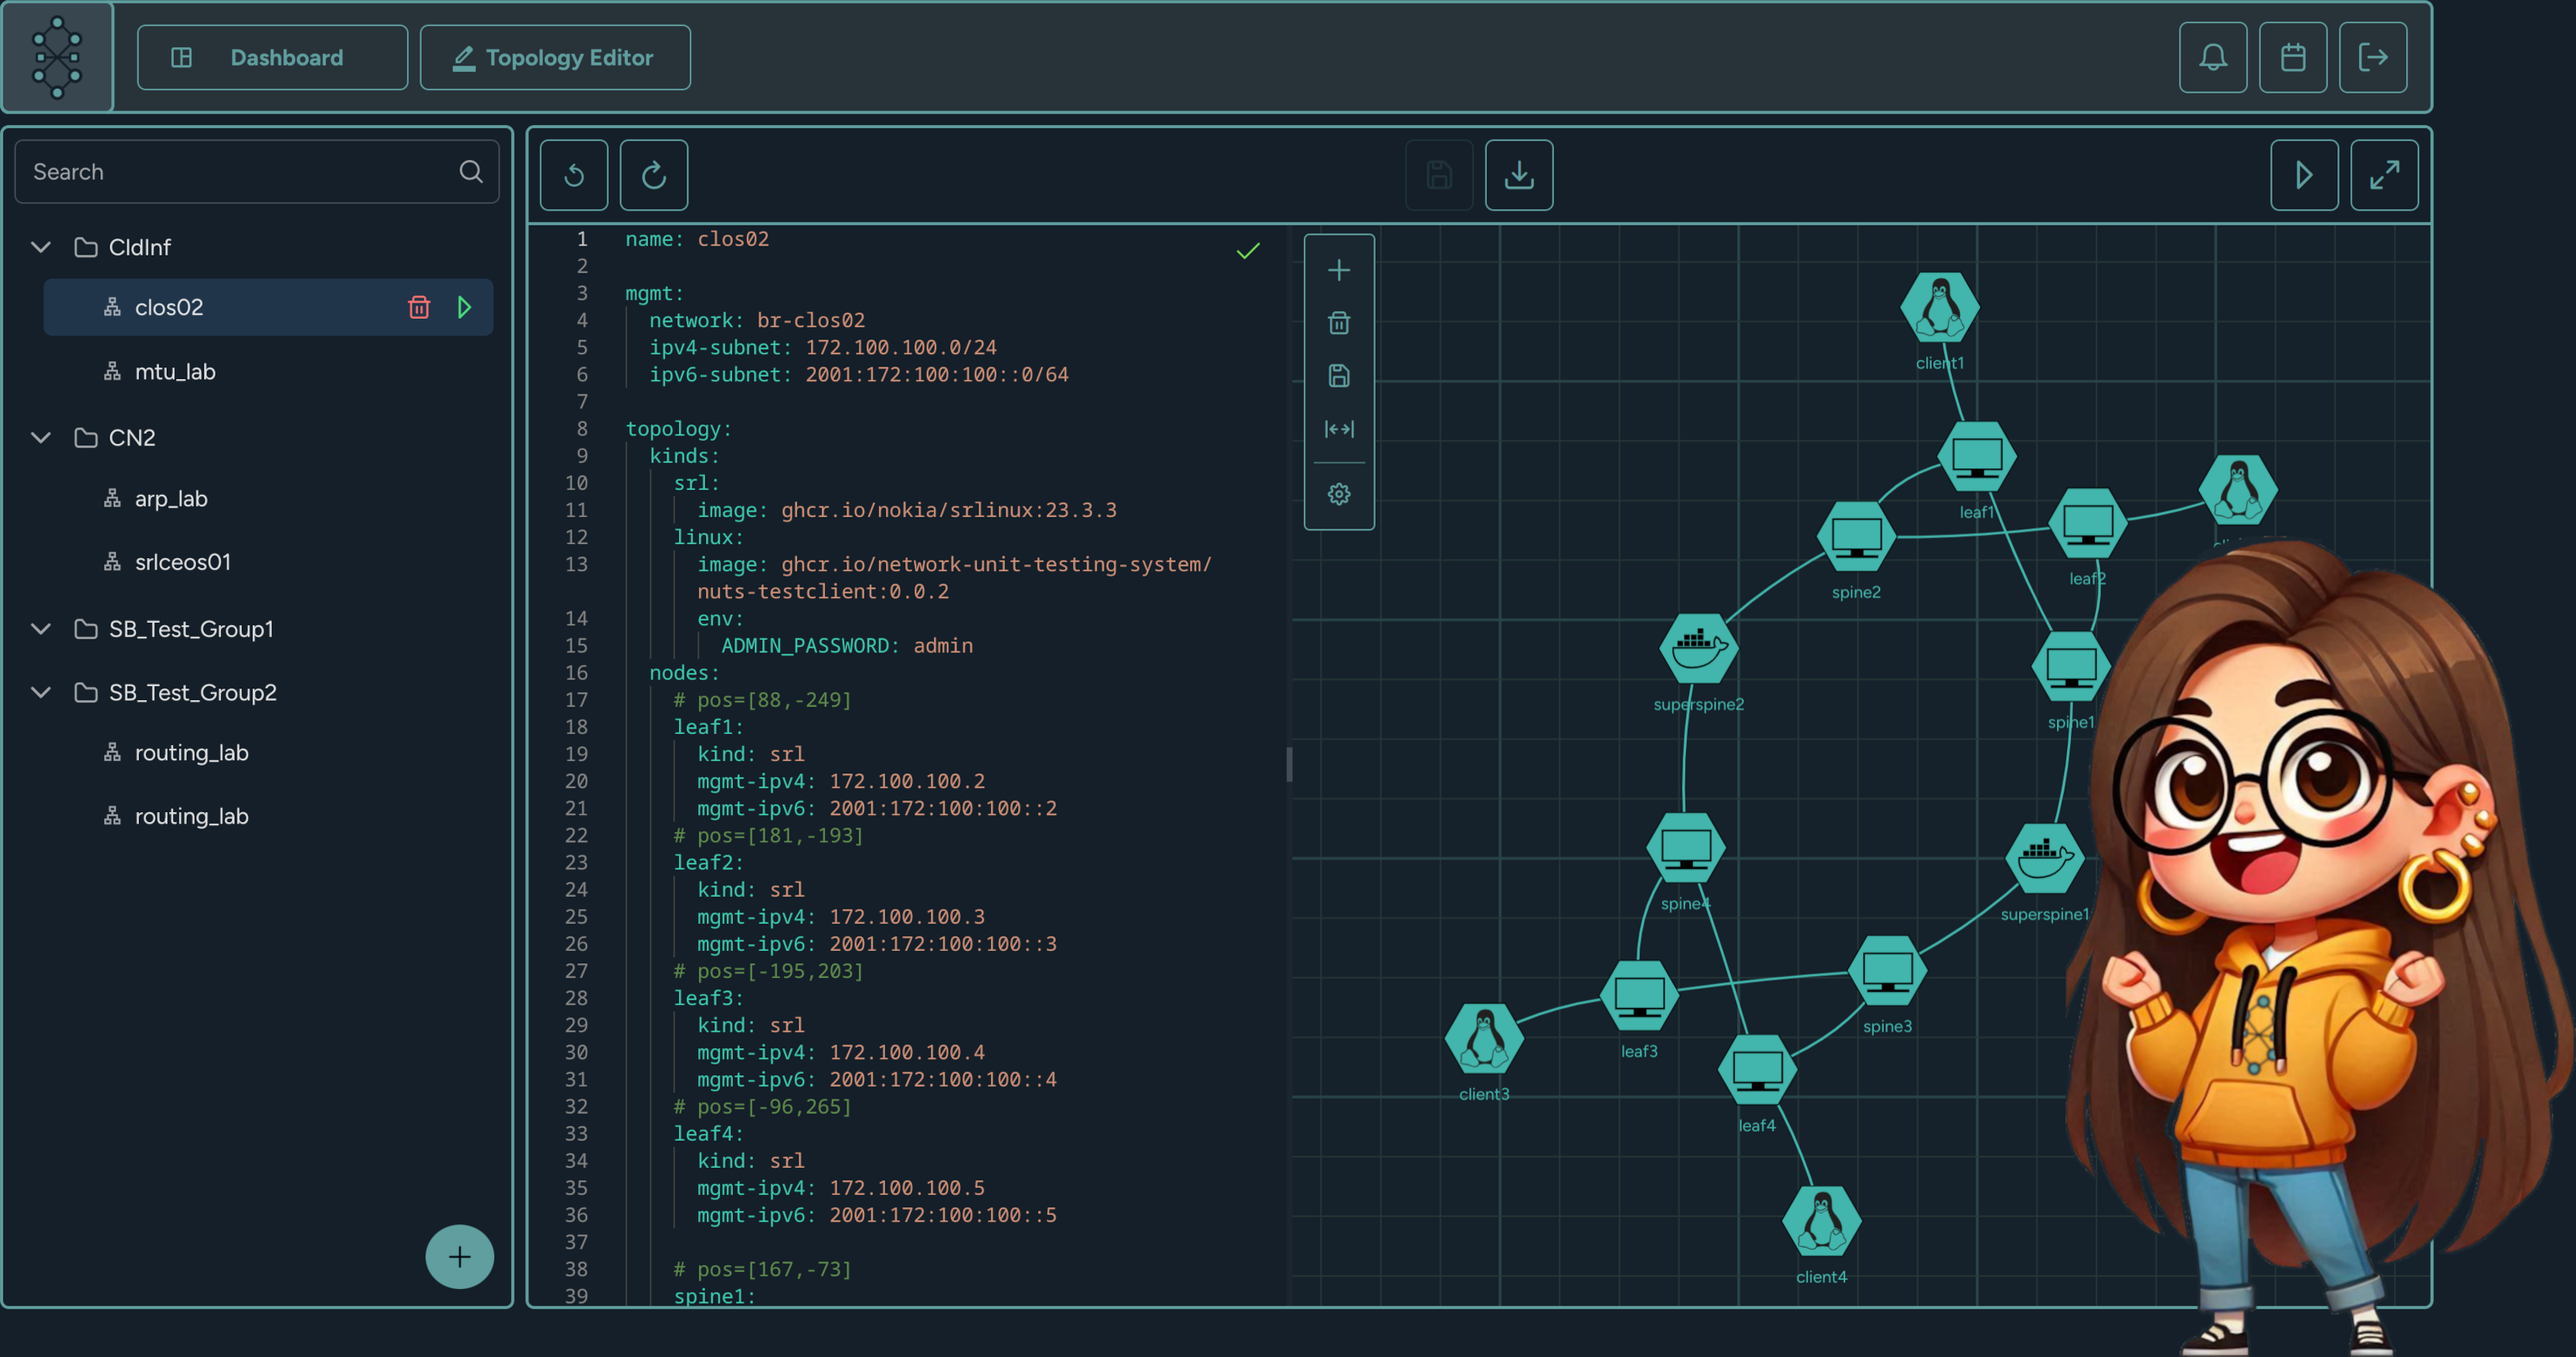
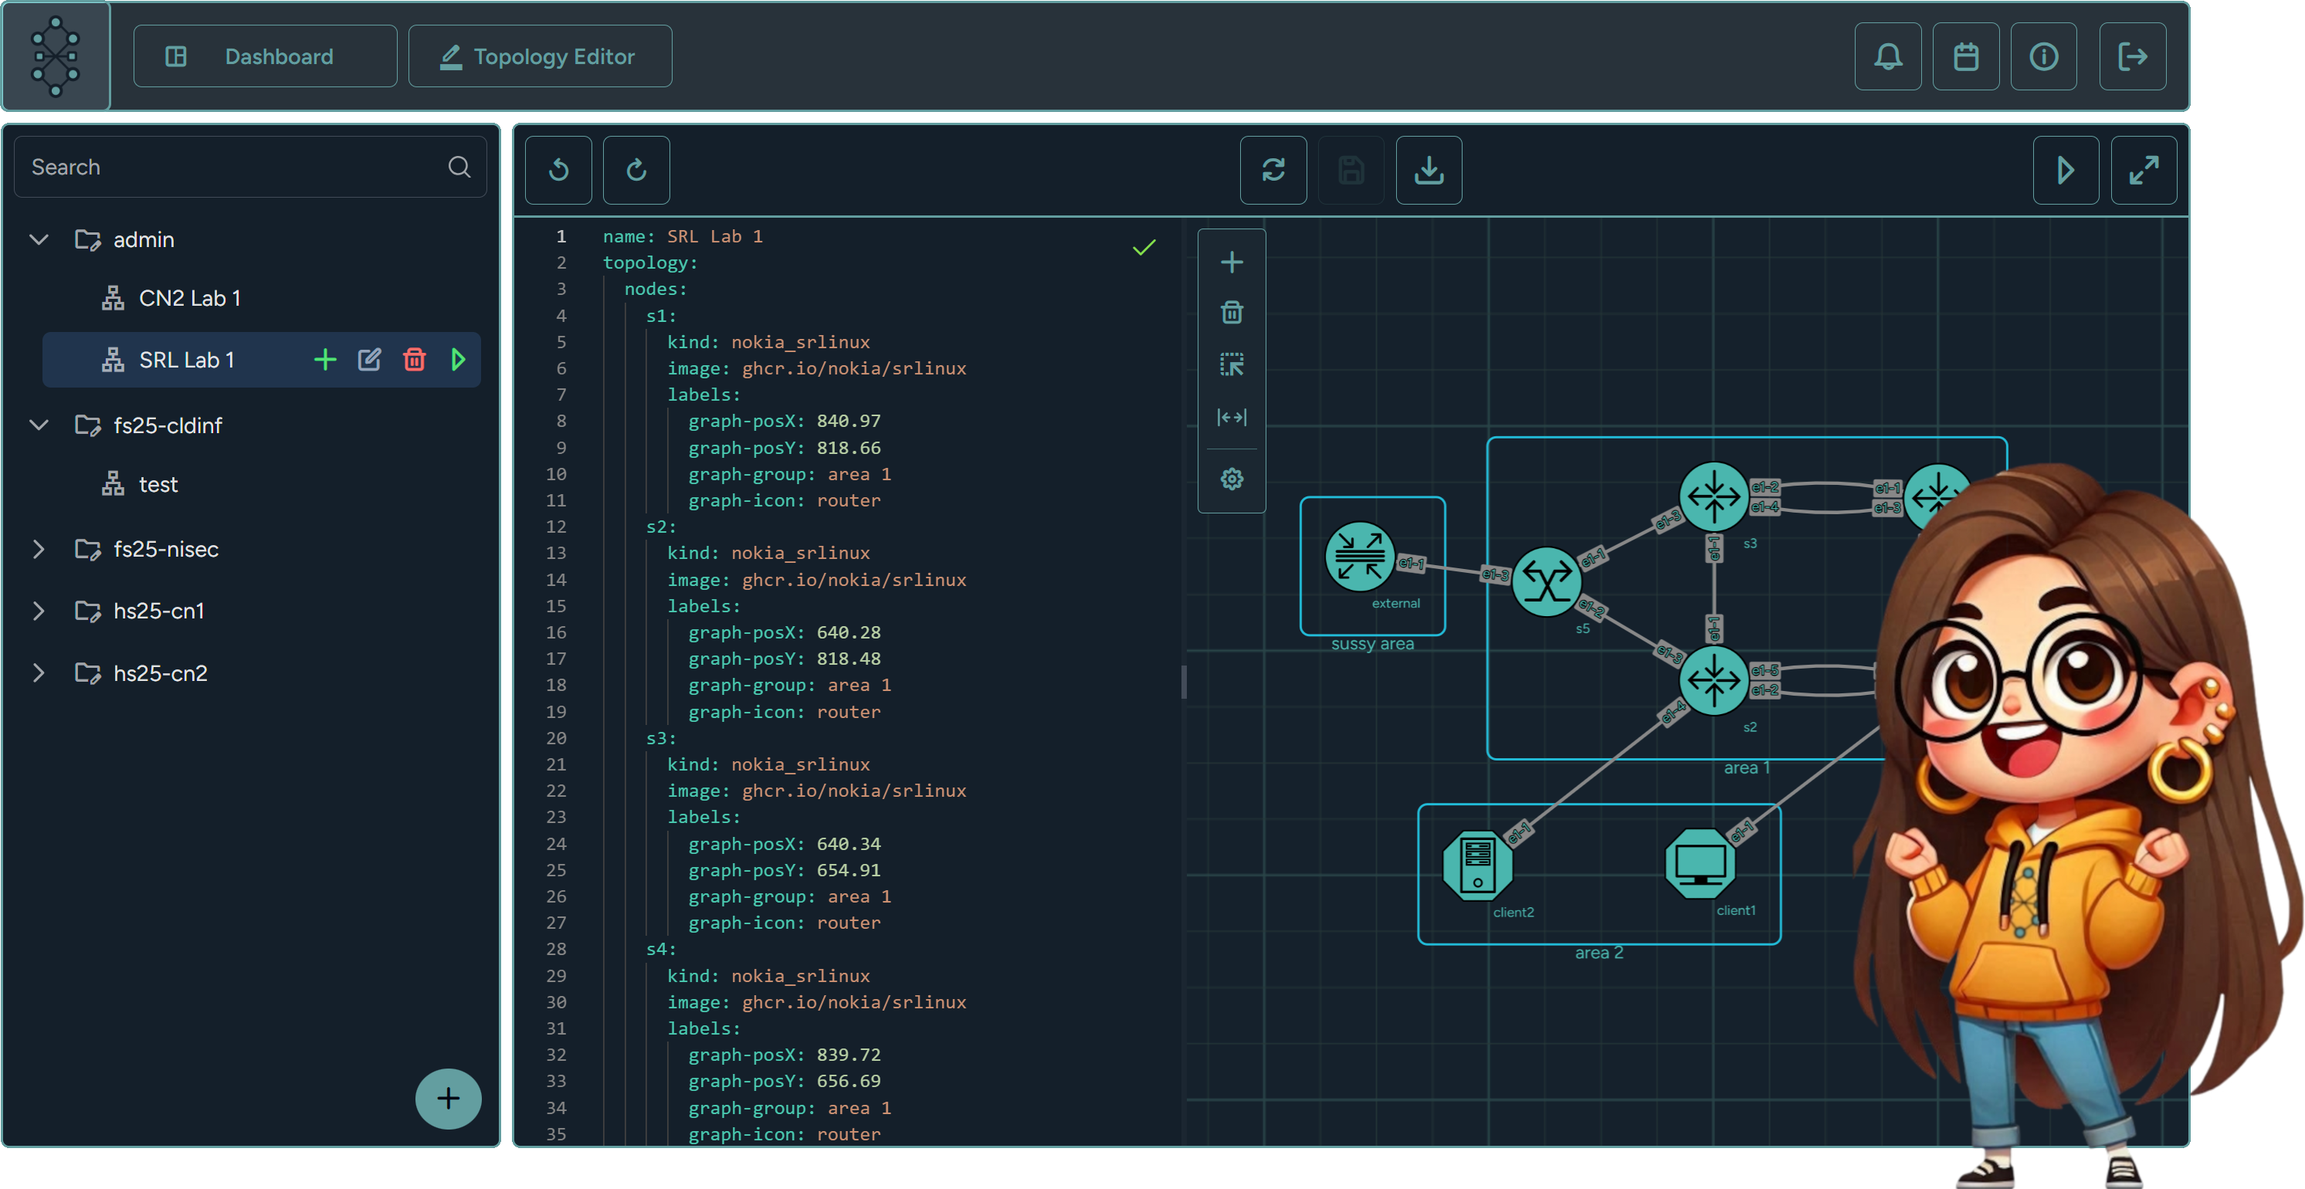
Updated readme

diff --git a/interface/README.md b/interface/README.md
@@ -1,87 +1,5 @@
-# Antimony
-A visual approach to designing Containerlab networks.
+![Antimony Logo](https://antimony-team.github.io/antimony/images/logo.svg)
 
-<img src="./assets/zoey.png" alt="zoey" style="zoom: 33%" />
+# Antimony Interface
 
-## About
-
-Antimony is a 2025 student project of the [University of Applied Science Rapperswil](https://www.ost.ch) (OST). It is meant to provide the first comprehensive graphical user interface for the [Containerlab](https://containerlab.dev/) / [Clabernetes](https://containerlab.dev/manual/clabernetes/) tool chain.
-
-Antimony is still in its prototype phase and currently only exist as a frontend. The complementary backend is planned to be implemented in the upcoming semesters. As of right now, its only practical use is as a Containerlab topology file editor.
-
-## Dependencies
-
-- Node v22.9.0+
-
-## How to Start
-
-There exist two different builds of Antimony right now; the online build and the offline build.
-
-### The Offline Build
-
-The offline build can be deployed standalone. It only provides topology editor functionality and does not support the deployment or management of Containerlab instances.
-
-It is served on `localhost:8100` by default. This can be changed in `./start.js`.
-
-```bash
-yarn install
-
-yarn run build-offline:prod		# For the production version
-yarn run build-offline:dev		# For the development version
-
-node ./start.js
-```
-
-### The Online Build
-
-The online build requires a backend which does not exist yet. For testing purposes, we implemented a simple mock backend that handles all API calls and creates fake deployments.
-
-It is served on `localhost:8100` by default. This can be changed in `./start.js`.
-
-The frontend requires the Antimony API and the web socket to be accessible at `/api` so we need to also create a proxy , which redirects all the HTTP traffic from `localhost:8100/api` to `localhost:3000`. This can be done with the `--with-proxy` argument.
-
-The proxy URL defaults to `localhost:3000` as this is where the mock backend is being served by default. This can be overridden with the `PROXY_URL` environment variable.
-
-```bash
-yarn install
-
-yarn run build:prod		# For the production version
-yarn run build:dev		# For the development version
-
-yarn run server			# Starts the mockserver with predefined testing data
-
-node ./start.js --with-proxy
-```
-
-#### Default Credentials
-
-The test data includes a default user with the credentials `admin` /`admin`. This and other testing data can be found in `server/data/`.
-
-#### Note on the Mock Server
-
-The mock server loads the test data at startup and stores it in-memory until the application exits. This means, that all changes made to the data are transient and will be wiped once the server restarts.
-
-The server is able to simulate the deployment of topologies. There is a 50/50 chance for the deployment to either fail or succeed.
-
-### Run the Devserver
-
-The webpack devserver will be served on `localhost:8080`. This can be changed in `webpack.dev.cjs`.
-
-```bash
-yarn install
-
-yarn run start			# Starts the online version
-yarn run start-offline	# Starts the offline version
-```
-
-# Credits
-
-Authors: Kian Gribi, Tom Stromer
-
-Project Lead: Jan Untersander
-
-Project Lecturer: Prof. Dr. Markus Stolze
-
-
-
-All of Antimony's icons are either taken from PrimeReact's Icon library, Material Symbols, or were designed by ourselves. Antimony's mascot Zoey was generated with the help of DALL-E 3 and SDXL.
+This repository is part of the [Antimony platform](https://github.com/antimony-team/antimony).
